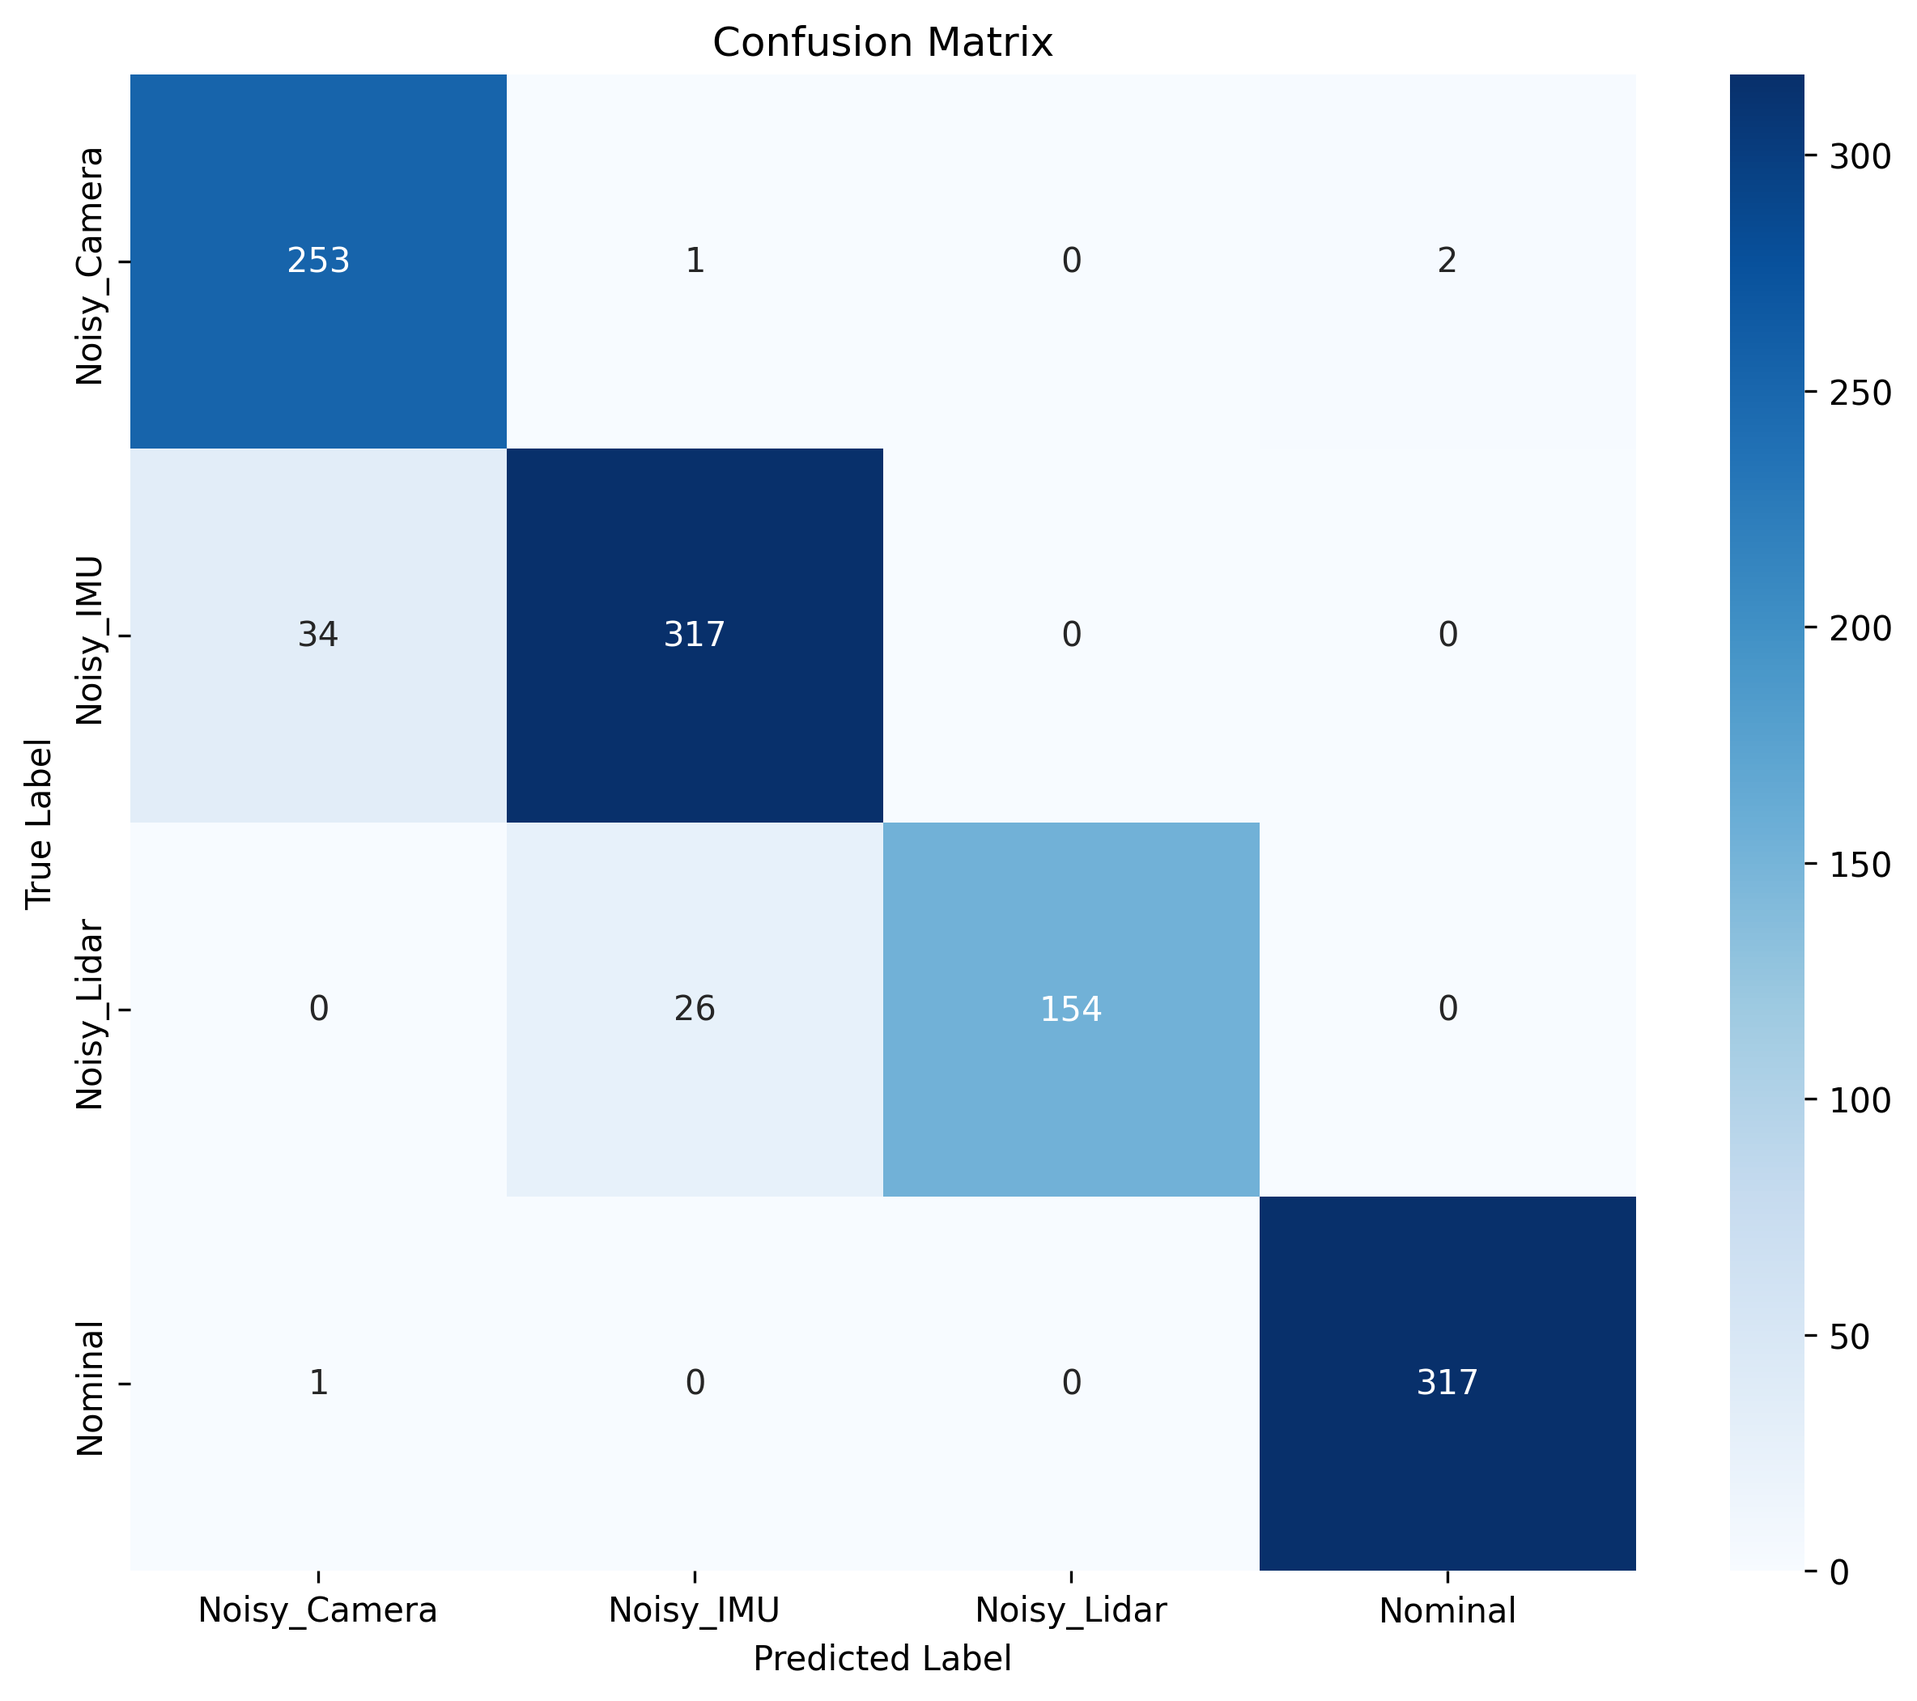
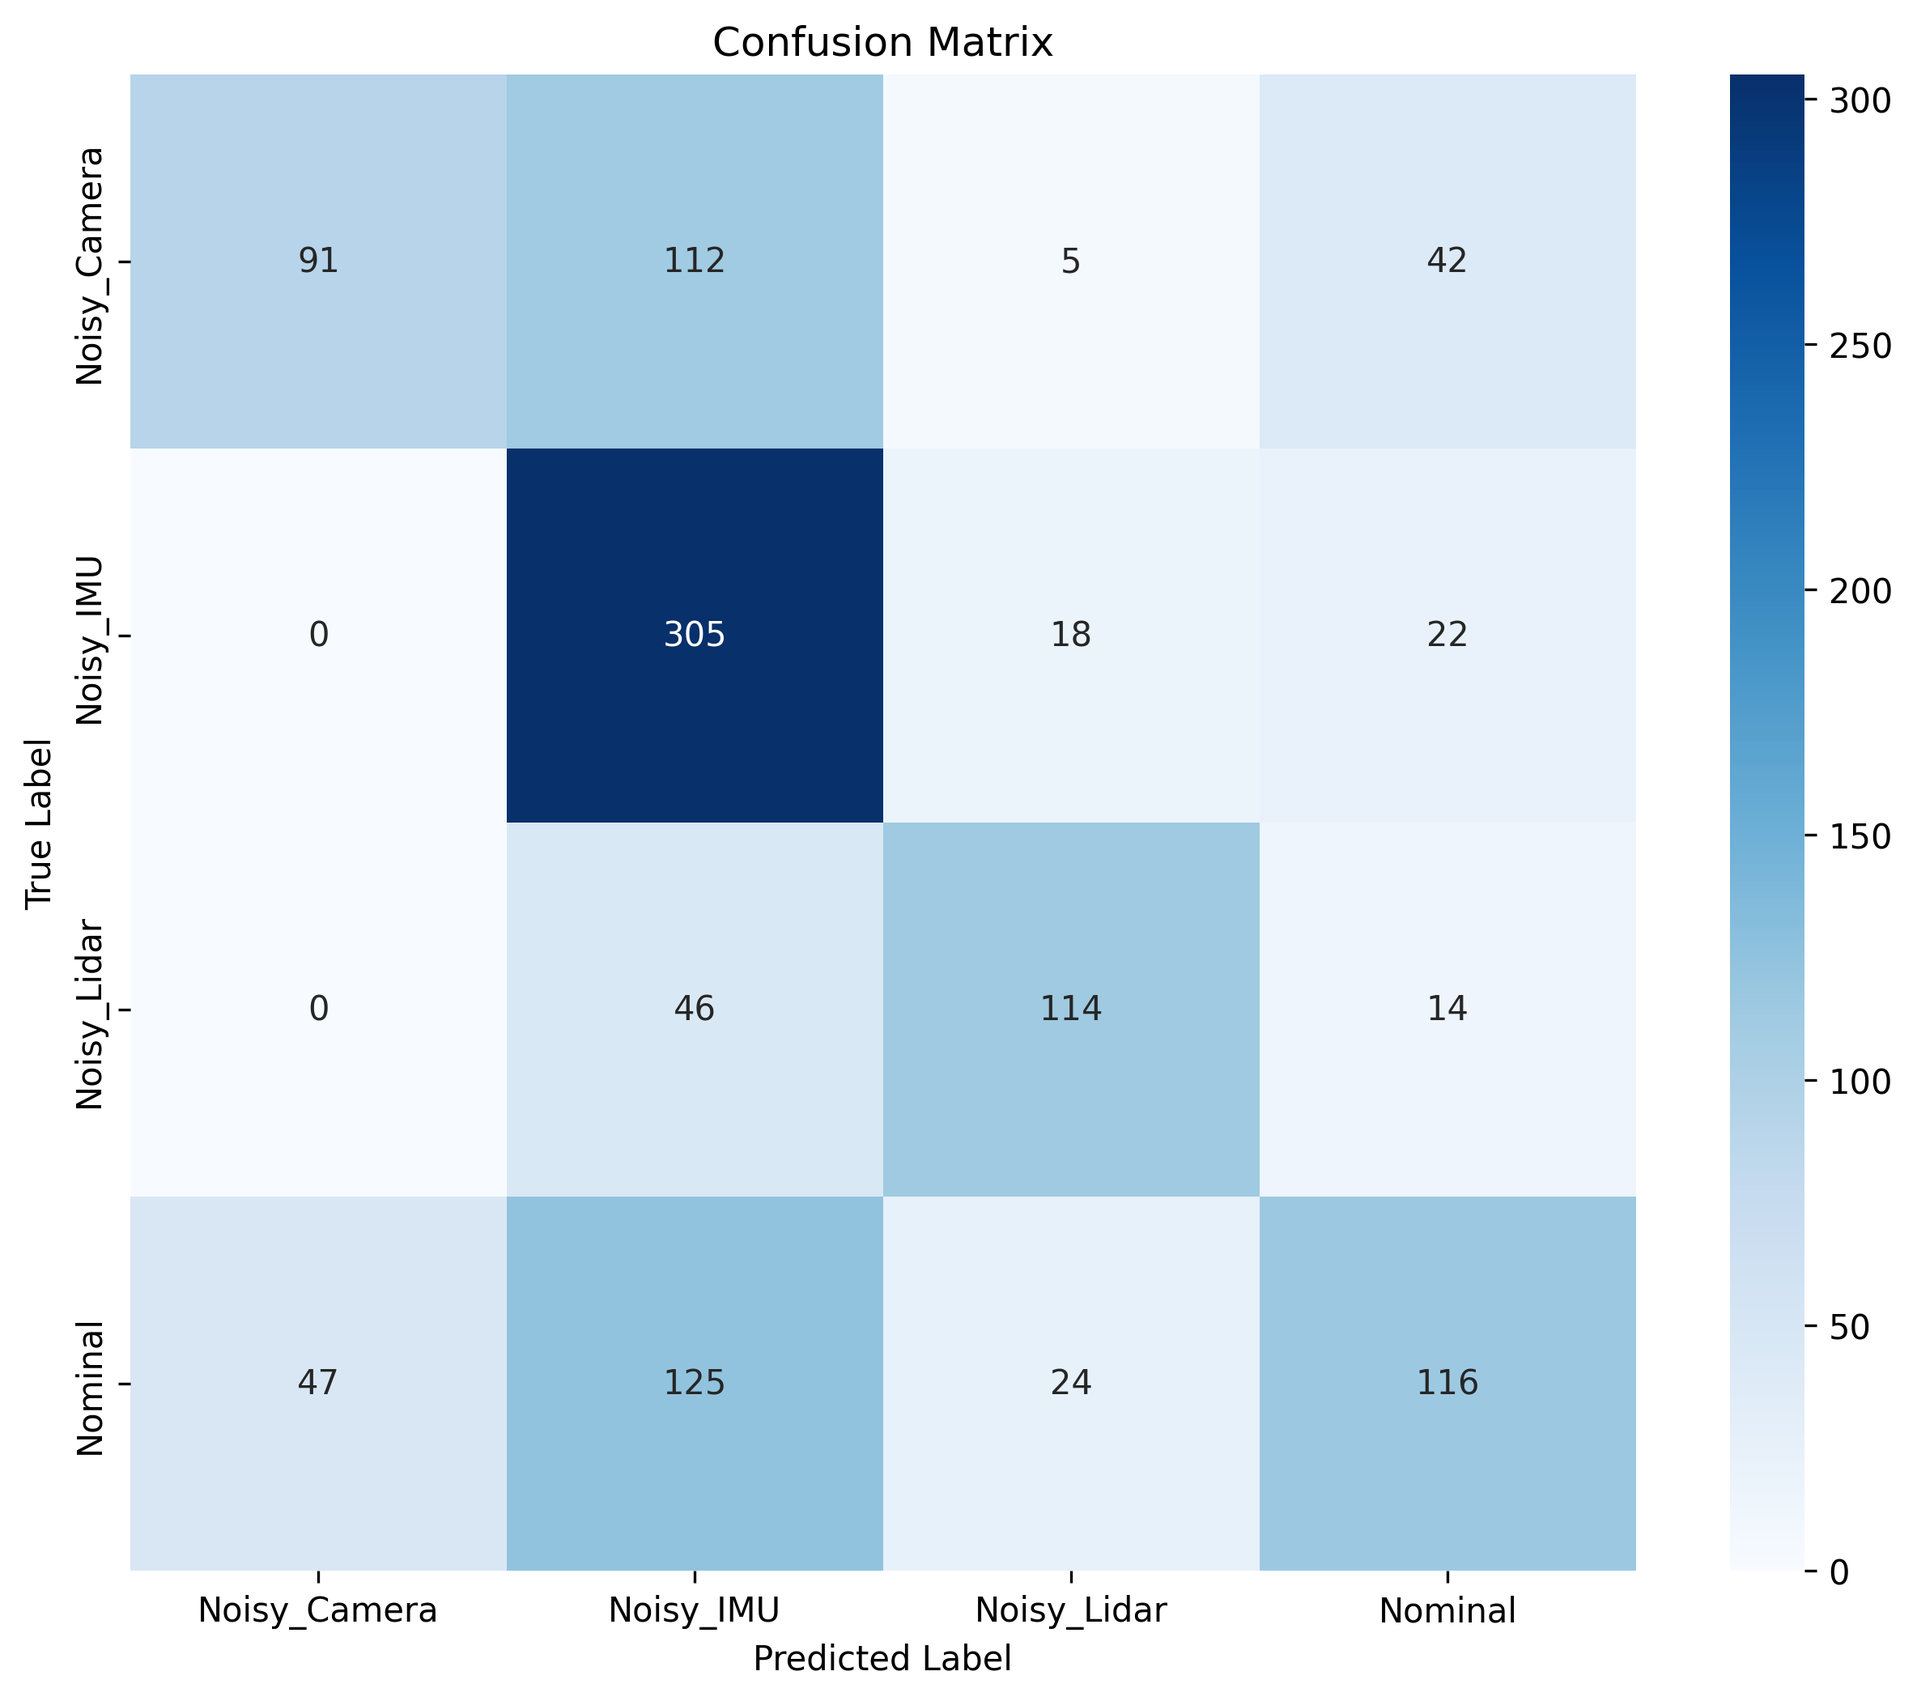
Approach 2 implementation

diff --git a/Risk_Assessment/RiskManager.py b/Risk_Assessment/RiskManager.py
@@ -15,7 +15,8 @@ class RiskAssessmentManager:
     def __init__(self, config: Dict[str, Any]):
         self.config = config
         self.data_loader = DataLoader(config)
-        self.residual_generator = ResidualGenerator(horizon=config['output_seq_len'])
+        self.horizon = config['output_seq_len']
+        self.residual_generator = ResidualGenerator(horizon=self.horizon)
         self.feature_extractor = FeatureExtractor()
         self.fault_detector = FaultDetector()
         
@@ -132,7 +133,8 @@ class RiskAssessmentManager:
         """Run complete fault detection pipeline"""
         # Process all conditions
         for condition in self.config['conditions']:
-            self.process_condition(model, condition)
+            #self.process_condition(model, condition)
+            self.process_condition_aligned(model, condition)
         
         # Combine all features and labels
         all_features = []
@@ -153,73 +155,180 @@ class RiskAssessmentManager:
         return results
     
     
-    def process_run(self,
-                        dataset: Any,
-                        predictions: List[Dict[str, np.ndarray]],
-                        condition: str) -> None:
+    def process_condition_aligned(self, model, condition: str):
         """
-        Process a run to generate time-step-based residual features.
-        This approach looks at all the H' predictions made for timestep t.
-        The implementation is unoptimized and may require debugging.
+        Process a single condition with aligned observations and predictions
+        This approach aligns predictions made at different times but targeting the same future timestamp
+        """
+        # Load data
+        loaded_data = self.data_loader.load_data_and_predictions(model, condition)
         
-        Args:
-            dataset: Dataset containing ground truth values
-            predictions: List of model predictions
-            condition: Condition label for the sequence
-        """
+        # Generate residuals and extract features
+        features = []
+        labels = []
+        
+        # Calculate valid range based on horizon
+        horizon = self.config['output_seq_len']
         start_idx = 0
-        end_idx = len(dataset)
+        end_idx = len(loaded_data.dataset)
         
-        for t in range(start_idx, end_idx - self.horizon):
-            window_residuals = []
+        # For each target timestamp
+        for target_t in range(start_idx + horizon, end_idx):
+            # Dictionaries to collect all predictions and observations for this target timestamp
+            predictions_for_t = {
+                'position': [], 'position_mean': [], 'position_var': [],
+                'velocity': [], 'velocity_mean': [], 'velocity_var': [],
+                'steering': [], 'steering_mean': [], 'steering_var': [],
+                'acceleration': [], 'acceleration_mean': [], 'acceleration_var': [],
+                'object_distance': [], 'traffic_light_detected': []
+            }
             
-            try:
-                # Look at past horizon steps for feature extraction
-                for h in range(-self.horizon + 1, 1):
-                    if t + h < start_idx or t + h >= end_idx:
-                        continue
-                        
-                    past, future, _, _ = dataset[t + h]
-                    pred_idx = t + h - start_idx
+            observations_for_t = {
+                'position': [],
+                'velocity': [],
+                'steering': [],
+                'acceleration': [],
+                'object_distance': [],
+                'traffic_light_detected': []
+            }
+            
+            valid_predictions = 0
+            
+            # Collect predictions made at different times for the same target time
+            for origin_t in range(target_t - horizon, target_t):
+                if origin_t < 0 or origin_t >= len(loaded_data.predictions):
+                    continue
                     
-                    if 0 <= pred_idx < len(predictions):
-                        pred = predictions[pred_idx]
-                        # Only use past data for residual computation
-                        truth = past
-                        
-                        residual_output = self.residual_generator.compute_residuals(
-                            pred, truth, t+h
-                        )
-                        window_residuals.append(residual_output.residuals)
+                # Calculate which prediction step corresponds to target_t
+                pred_offset = target_t - origin_t - 1  # -1 because prediction starts from next step
                 
-                if len(window_residuals) == self.horizon:
-                    # Create a nested dictionary to store all residuals for the window
-                    # Structure: {feature -> residual_type -> timestep -> values}
-                    residuals_dict = {}
+                # Only process if the offset is within the horizon
+                if pred_offset < 0 or pred_offset >= horizon:
+                    continue
+                
+                # Get actual observation at target_t
+                past, future, _, _ = loaded_data.dataset[target_t]
+                
+                # Get prediction made at origin_t for target_t
+                prediction = loaded_data.predictions[origin_t]
+                
+                # Check if we have valid prediction data
+                if prediction is None or len(prediction) == 0:
+                    continue
                     
-                    for feature in FEATURE_NAMES:
-                        residuals_dict[feature] = {}
-                        
-                        # Initialize dictionary for each residual type
-                        for residual_type in self.residual_generator.residual_types:
-                            # Collect values across timesteps for this feature and residual type
-                            values = [r[feature][residual_type] for r in window_residuals]
-                            residuals_dict[feature][residual_type] = np.array(values)
+                valid_predictions += 1
+                
+                # Add observation at target_t
+                for feature in observations_for_t.keys():
+                    # Ensure the feature exists in the future data
+                    if feature in future:
+                        # Get the actual observation - we need all the values, not just at an offset
+                        # because future contains the ground truth for all future steps
+                        observations_for_t[feature].append(future[feature])
+                
+                # Add prediction for target_t made at origin_t
+                for feature in ['position', 'velocity', 'steering', 'acceleration']:
+                    # Regular features have mean and variance
+                    mean_key = f'{feature}_mean'
+                    var_key = f'{feature}_var'
                     
-                    # Create ResidualFeatures object with the collected data
-                    features = ResidualFeatures.create_from_data(
-                        time=t,
-                        condition=condition,
-                        residuals=residuals_dict
+                    if mean_key in prediction and var_key in prediction:
+                        # Extract the specific prediction step (pred_offset)
+                        # Based on DLModels.py, prediction[mean_key] shape is [batch, seq_len, dims]
+                        # or [batch, seq_len] depending on the feature
+                        try:
+                            # For position and velocity (2D features)
+                            if feature in ['position', 'velocity'] and prediction[mean_key].ndim > 2:
+                                if pred_offset < prediction[mean_key].shape[0]:
+                                    predictions_for_t[mean_key].append(prediction[mean_key][pred_offset])
+                                    predictions_for_t[var_key].append(prediction[var_key][pred_offset])
+                            # For steering and acceleration (1D features)
+                            elif pred_offset < prediction[mean_key].shape[0]:
+                                predictions_for_t[mean_key].append(prediction[mean_key][pred_offset])
+                                predictions_for_t[var_key].append(prediction[var_key][pred_offset])
+                        except Exception as e:
+                            print(f"Error extracting {feature} at offset {pred_offset}: {str(e)}")
+                            print(f"Shape: {prediction[mean_key].shape}")
+                
+                # Special case for object_distance and traffic_light_detected (no variance)
+                for feature in ['object_distance', 'traffic_light_detected']:
+                    if feature in prediction:
+                        try:
+                            if pred_offset < prediction[feature].shape[0]:
+                                predictions_for_t[feature].append(prediction[feature][pred_offset])
+                        except Exception as e:
+                            print(f"Error extracting {feature} at offset {pred_offset}: {str(e)}")
+                            print(f"Shape: {prediction[feature].shape}")
+            
+            # Only process if we have collected valid predictions
+            if valid_predictions > 0:
+                # Convert lists to tensors/arrays for compute_residuals
+                processed_predictions = {}
+                processed_observations = {}
+                
+                # Process predictions
+                for key, values in predictions_for_t.items():
+                    if values:
+                        # Convert list of tensors to single array/tensor
+                        if key.endswith('_mean') or key.endswith('_var'):
+                            feature = key.split('_')[0]
+                            # Handle the main feature keys to match what compute_residuals expects
+                            if feature in ['position', 'velocity', 'steering', 'acceleration']:
+                                # For these we need both mean and var
+                                if len(values) > 0:
+                                    try:
+                                        import torch
+                                        import numpy as np
+                                        # Stack tensors if they're torch tensors
+                                        if isinstance(values[0], torch.Tensor):
+                                            processed_predictions[key] = torch.stack(values).detach().cpu().numpy()
+                                        else:
+                                            # Convert to numpy arrays if not already
+                                            processed_predictions[key] = np.array(values)
+                                    except Exception as e:
+                                        print(f"Error processing {key}: {str(e)}")
+                        else:
+                            # Direct features (object_distance, traffic_light_detected)
+                            if len(values) > 0:
+                                try:
+                                    import torch
+                                    import numpy as np
+                                    if isinstance(values[0], torch.Tensor):
+                                        processed_predictions[key] = torch.stack(values).detach().cpu().numpy()
+                                    else:
+                                        processed_predictions[key] = np.array(values)
+                                except Exception as e:
+                                    print(f"Error processing {key}: {str(e)}")
+                
+                # Process observations
+                for key, values in observations_for_t.items():
+                    if values:
+                        try:
+                            import torch
+                            # Stack tensors
+                            processed_observations[key] = torch.stack(values)
+                        except Exception as e:
+                            print(f"Error processing observation {key}: {str(e)}")
+                
+                # Generate residuals if we have both predictions and observations
+                if processed_predictions and processed_observations:
+                    residual_output = self.residual_generator.compute_residuals(
+                        processed_predictions,
+                        processed_observations,
+                        target_t
                     )
                     
-                    # Extract features using the feature extractor
-                    feature_dict = self.feature_extractor.extract_features(features)
+                    residual_features = ResidualFeatures(
+                        time=target_t,
+                        condition=condition,
+                        residuals=residual_output.residuals
+                    )
                     
-                    # Store the features and label
-                    self.features.append(feature_dict)
-                    self.labels.append(condition)
-                    
-            except Exception as e:
-                print(f"Error processing sequence at time {t}: {str(e)}")
-                continue
+                    feature_dict = self.feature_extractor.extract_features(residual_features)
+                    features.append(feature_dict)
+                    labels.append(condition)
+        
+        self.features_by_condition[condition] = features
+        self.labels_by_condition[condition] = labels
+        
+        return features, labels

diff --git a/Risk_Assessment/FaultDetector.py b/Risk_Assessment/FaultDetector.py
@@ -17,10 +17,10 @@ class FaultDetector:
             #('variance_selector', VarianceThreshold(threshold=0.1)),
             ('scaler', RobustScaler()),
             ('classifier', RandomForestClassifier(
-                n_estimators=1000,
+                n_estimators=100,
                 random_state=random_state,
                 max_features='sqrt',
-                min_samples_leaf=250
+                min_samples_leaf=200
             ))
         ])
         

diff --git a/Risk_Assessment/Residuals.py b/Risk_Assessment/Residuals.py
@@ -235,7 +235,7 @@ class SPRTResidual(BaseResidual):
 
 
 class CUSUMResidual(BaseResidual):
-    def __init__(self, k: float = 0.2, h: float = 5.0, target: float = 0.0):
+    def __init__(self, k: float = 3.0, h: float = 5.0, target: float = 0.0):
         """
         Initialize CUSUM control chart parameters.
         
